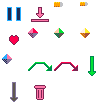
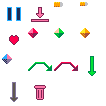
Draw different card backgrounds and diamonds based on the card

Changed region(s): [[0.7358, 0.2547, 0.8491, 0.3113], [0.5094, 0.3113, 0.6226, 0.3679], [0.2547, 0.3113, 0.3679, 0.3679]]

diff --git a/lib/src/game/builders/CardBuilder.cpp b/lib/src/game/builders/CardBuilder.cpp
@@ -34,7 +34,6 @@ const std::map<CardType, Card> CARD_DEFS = {
              .traits = CardTrait::Pickable | CardTrait::Ammo,
              .specialSound = SoundId::WeaponReload,
              .quantity = 3,
-             .power = 0,
              .name = "ammo",
              .text1 = "restores ammo",
              .text2 = "for a chosen",
@@ -45,7 +44,6 @@ const std::map<CardType, Card> CARD_DEFS = {
       Card { .image = CardImage::GreenHerb,
              .traits = CardTrait::Pickable | CardTrait::Healing,
              .special = CardSpecial::Combines,
-             .quantity = 0,
              .power = 2,
              .link = SPECIAL_HERBS,
              .name = "green herb",
@@ -57,7 +55,6 @@ const std::map<CardType, Card> CARD_DEFS = {
       Card { .image = CardImage::RedHerb,
              .traits = CardTrait::Pickable | CardTrait::Healing,
              .special = CardSpecial::Combines,
-             .quantity = 0,
              .power = 1,
              .link = SPECIAL_HERBS,
              .name = "red herb",
@@ -67,7 +64,6 @@ const std::map<CardType, Card> CARD_DEFS = {
     { CardType::MixedHerbs,
       Card { .image = CardImage::MixedHerbs,
              .traits = CardTrait::Pickable | CardTrait::Healing,
-             .quantity = 0,
              .power = 5,
              .name = "mixed herbs",
              .text1 = "restores to full",
@@ -75,7 +71,6 @@ const std::map<CardType, Card> CARD_DEFS = {
     { CardType::FirstAid,
       Card { .image = CardImage::FirstAid,
              .traits = CardTrait::Pickable | CardTrait::Healing,
-             .quantity = 0,
              .power = 5,
              .name = "first-aid spray",
              .text1 = "restores to full",
@@ -85,8 +80,6 @@ const std::map<CardType, Card> CARD_DEFS = {
     { CardType::ShieldDoor,
       Card { .image = CardImage::ShieldDoor,
              .traits = CardTrait::KeyTarget,
-             .quantity = 0,
-             .power = 0,
              .link = SPECIAL_SHIELD_KEYDOOR,
              .name = "door",
              .text1 = "there's a shield",
@@ -95,8 +88,6 @@ const std::map<CardType, Card> CARD_DEFS = {
     { CardType::ShieldKey,
       Card { .image = CardImage::ShieldKey,
              .traits = CardTrait::Pickable | CardTrait::KeyItem,
-             .quantity = 0,
-             .power = 0,
              .link = SPECIAL_SHIELD_KEYDOOR,
              .name = "spade key",
              .text1 = "key with a",
@@ -104,8 +95,6 @@ const std::map<CardType, Card> CARD_DEFS = {
     { CardType::DiamondDoor,
       Card { .image = CardImage::DiamondDoor,
              .traits = CardTrait::KeyTarget,
-             .quantity = 0,
-             .power = 0,
              .link = SPECIAL_DIAMOND_KEYDOOR,
              .name = "door",
              .text1 = "there is a",
@@ -115,8 +104,6 @@ const std::map<CardType, Card> CARD_DEFS = {
     { CardType::DiamondKey,
       Card { .image = CardImage::DiamondKey,
              .traits = CardTrait::Pickable | CardTrait::KeyItem,
-             .quantity = 0,
-             .power = 0,
              .link = SPECIAL_DIAMOND_KEYDOOR,
              .name = "diamond key",
              .text1 = "key with a",
@@ -125,8 +112,6 @@ const std::map<CardType, Card> CARD_DEFS = {
       Card { .image = CardImage::MoonCrestLeft,
              .traits = CardTrait::Pickable | CardTrait::KeyItemPart,
              .special = CardSpecial::Combines,
-             .quantity = 0,
-             .power = 0,
              .link = SPECIAL_MOON_CREST_PART,
              .name = "moon crest (l)",
              .text1 = "combine with the",
@@ -135,8 +120,6 @@ const std::map<CardType, Card> CARD_DEFS = {
       Card { .image = CardImage::MoonCrestRight,
              .traits = CardTrait::Pickable | CardTrait::KeyItemPart,
              .special = CardSpecial::Combines,
-             .quantity = 0,
-             .power = 0,
              .link = SPECIAL_MOON_CREST_PART,
              .name = "moon crest (r)",
              .text1 = "combine with the",
@@ -144,8 +127,6 @@ const std::map<CardType, Card> CARD_DEFS = {
     { CardType::MoonCrest,
       Card { .image = CardImage::MoonCrest,
              .traits = CardTrait::Pickable | CardTrait::KeyItem,
-             .quantity = 0,
-             .power = 0,
              .link = SPECIAL_CREST_DOOR,
              .name = "moon crest",
              .text1 = "hexagonal crest",
@@ -154,8 +135,6 @@ const std::map<CardType, Card> CARD_DEFS = {
     { CardType::SunCrest,
       Card { .image = CardImage::SunCrest,
              .traits = CardTrait::Pickable | CardTrait::KeyItem,
-             .quantity = 0,
-             .power = 0,
              .link = SPECIAL_CREST_DOOR,
              .name = "moon crest",
              .text1 = "hexagonal crest",
@@ -164,8 +143,6 @@ const std::map<CardType, Card> CARD_DEFS = {
     { CardType::CrestDoorEmpty,
       Card { .image = CardImage::CrestDoorEmpty,
              .traits = CardTrait::KeyTarget,
-             .quantity = 0,
-             .power = 0,
              .link = SPECIAL_CREST_DOOR,
              .name = "sun/moon door",
              .text1 = "there are slots",
@@ -175,8 +152,6 @@ const std::map<CardType, Card> CARD_DEFS = {
       Card {
           .image = CardImage::CrestDoorWithOneCrest,
           .traits = CardTrait::KeyTarget,
-          .quantity = 0,
-          .power = 0,
           .link = SPECIAL_CREST_DOOR,
           .name = "sun/moon door",
           .text1 = "there is a slot",
@@ -187,8 +162,6 @@ const std::map<CardType, Card> CARD_DEFS = {
       Card {
           .image = CardImage::RedJewel,
           .traits = CardTrait::KeyItem | CardTrait::Pickable,
-          .quantity = 0,
-          .power = 0,
           .link = SPECIAL_RED_JEWEL,
           .name = "red jewel",
       } },
@@ -196,8 +169,6 @@ const std::map<CardType, Card> CARD_DEFS = {
       Card {
           .image = CardImage::RedJewelBox,
           .traits = CardTrait::KeyTarget,
-          .quantity = 0,
-          .power = 0,
           .link = SPECIAL_RED_JEWEL,
           .name = "red jewel box",
           .text1 = "there is a slot",
@@ -207,8 +178,6 @@ const std::map<CardType, Card> CARD_DEFS = {
       Card {
           .image = CardImage::YellowJewel,
           .traits = CardTrait::KeyItem | CardTrait::Pickable,
-          .quantity = 0,
-          .power = 0,
           .link = SPECIAL_YELLOW_JEWEL,
           .name = "yellow jewel",
       } },
@@ -216,8 +185,6 @@ const std::map<CardType, Card> CARD_DEFS = {
       Card {
           .image = CardImage::YellowJewelBox,
           .traits = CardTrait::KeyTarget,
-          .quantity = 0,
-          .power = 0,
           .link = SPECIAL_YELLOW_JEWEL,
           .name = "yellow jewel box",
           .text1 = "there is a slot",
@@ -227,8 +194,6 @@ const std::map<CardType, Card> CARD_DEFS = {
       Card {
           .image = CardImage::Vaccine,
           .traits = CardTrait::Pickable,
-          .quantity = 0,
-          .power = 0,
           .link = SPECIAL_YELLOW_JEWEL,
           .name = "vaccine",
       } },
@@ -239,7 +204,6 @@ const std::map<CardType, Card> CARD_DEFS = {
              .traits = CardTrait::Enemy,
              .special = CardSpecial::SpawnCrimsonHead,
              .specialSound = SoundId::ZombieGrowl,
-             .quantity = 0,
              .power = 1,
              .name = "zombie",
              .text1 = "on killed:",
@@ -250,7 +214,6 @@ const std::map<CardType, Card> CARD_DEFS = {
              .traits = CardTrait::Enemy,
              .special = CardSpecial::Vigilant,
              .specialSound = SoundId::ZombieGrowl,
-             .quantity = 0,
              .power = 2,
              .name = "crimson head",
              .text1 = "vigilant:",
@@ -260,7 +223,6 @@ const std::map<CardType, Card> CARD_DEFS = {
       Card { .image = CardImage::Licker,
              .traits = CardTrait::Enemy,
              .special = CardSpecial::Blind,
-             .quantity = 0,
              .power = 3,
              .name = "licker",
              .text1 = "blind:",
@@ -271,7 +233,6 @@ const std::map<CardType, Card> CARD_DEFS = {
              .traits = CardTrait::Enemy,
              .special = CardSpecial::Evasive | CardSpecial::Vigilant,
              .specialSound = SoundId::DogGrowl,
-             .quantity = 0,
              .power = 1,
              .name = "cerberus",
              .text1 = "evasive,vigilant",
@@ -283,7 +244,6 @@ const std::map<CardType, Card> CARD_DEFS = {
              .traits = CardTrait::Enemy,
              .special = CardSpecial::Retaliate | CardSpecial::Vigilant,
              .specialSound = SoundId::None,
-             .quantity = 0,
              .power = 5,
              .name = "tyrant t-002",
              .text1 = "retaliate",
@@ -295,8 +255,6 @@ const std::map<CardType, Card> CARD_DEFS = {
     { CardType::Crate,
       Card { .image = CardImage::Crate,
              .special = CardSpecial::BoosterPack,
-             .quantity = 0,
-             .power = 0,
              .name = "crate",
              .text1 = "allows you to",
              .text2 = "return card from",
@@ -304,8 +262,6 @@ const std::map<CardType, Card> CARD_DEFS = {
              .text4 = "to the deck." } },
     { CardType::BookCase,
       Card { .image = CardImage::Max,
-             .quantity = 0,
-             .power = 0,
              .name = "bookcase",
              .text1 = "books on various",
              .text2 = "subjects." } },

diff --git a/lib/src/game/engine/RenderingEngine.cpp b/lib/src/game/engine/RenderingEngine.cpp
@@ -1,8 +1,5 @@
 #include "game/engine/RenderingEngine.hpp"
 #include "game/engine/GameRulesEngine.hpp"
-#include "game/enums/BackgroundType.hpp"
-#include "game/enums/CardBackground.hpp"
-#include "game/enums/Icon.hpp"
 
 RenderingEngine::RenderingEngine(
     dgm::ResourceManager& resmgr,
@@ -202,9 +199,9 @@ void RenderingEngine::renderCard(
     text.setScale(scale);
     sprite.setScale(scale);
 
-    sprite.setTextureRect(
-        atlas.getClip(cardbgrLocation)
-            .getFrame(std::to_underlying(CardBackground::Old)));
+    sprite.setTextureRect(atlas.getClip(cardbgrLocation)
+                              .getFrame(std::to_underlying(
+                                  getAppropriateCardBackgroundType(card))));
     sprite.setPosition(offset);
     window.draw(sprite);
 
@@ -215,32 +212,25 @@ void RenderingEngine::renderCard(
     window.draw(sprite);
 
     auto& iconsClip = atlas.getClip(iconsLocation);
-    if (card.quantity > 0 && card.traits & CardTrait::Weapon)
-    {
-        sprite.setTextureRect(
-            iconsClip.getFrame(std::to_underlying(Icon::Bullet)));
+    sprite.setTextureRect(
+        iconsClip.getFrame(std::to_underlying(Icon::BulletBig)));
 
-        for (auto i = 0; i < card.quantity; ++i)
-        {
-            sprite.setPosition(
-                offset + sf::Vector2f { 0.f, 13.f + i * 6.f } * scale.y);
-            window.draw(sprite);
-        }
+    for (auto i = 0; i < card.quantity; ++i)
+    {
+        sprite.setPosition(
+            offset + sf::Vector2f { 0.f, 13.f + i * 7.f } * scale.y);
+        window.draw(sprite);
     }
 
-    if (card.power > 0)
-    {
-        sprite.setTextureRect(
-            iconsClip.getFrame(std::to_underlying(Icon::Diamond)));
+    sprite.setTextureRect(iconsClip.getFrame(
+        std::to_underlying(getAppropriateDiamondType(card))));
 
-        for (auto i = 0; i < card.power; ++i)
-        {
-            sprite.setPosition(
-                offset
-                + sf::Vector2f { 2.f + i * 12.f, 102.f }.componentWiseMul(
-                    scale));
-            window.draw(sprite);
-        }
+    for (auto i = 0; i < card.power; ++i)
+    {
+        sprite.setPosition(
+            offset
+            + sf::Vector2f { 2.f + i * 12.f, 102.f }.componentWiseMul(scale));
+        window.draw(sprite);
     }
 
     text.setCharacterSize(5);
@@ -376,4 +366,25 @@ BackgroundType RenderingEngine::getAppropriateBackgroundType() const
     }
 
     return BackgroundType::Plain;
+}
+
+CardBackground
+RenderingEngine::getAppropriateCardBackgroundType(const Card& card) const
+{
+    if (card.power == 0)
+        return CardBackground::NoAmmoNoDiamonds;
+    else if (card.traits & CardTrait::Weapon)
+        return CardBackground::AmmoAndDiamonds;
+    return CardBackground::NoAmmoWithDiamonds;
+}
+
+Icon RenderingEngine::getAppropriateDiamondType(const Card& card) const
+{
+    if (card.traits & CardTrait::Enemy)
+        return Icon::RedDiamond;
+    else if (card.traits & CardTrait::Healing)
+        return Icon::GreenDiamond;
+    else if (card.traits & CardTrait::Weapon)
+        return Icon::YellowDiamond;
+    return Icon::Diamond;
 }

diff --git a/lib/include/game/engine/RenderingEngine.hpp b/lib/include/game/engine/RenderingEngine.hpp
@@ -2,6 +2,8 @@
 
 #include "game/definitions/Scene.hpp"
 #include "game/enums/BackgroundType.hpp"
+#include "game/enums/CardBackground.hpp"
+#include "game/enums/Icon.hpp"
 #include "input/TouchController.hpp"
 #include "misc/FpsCounter.hpp"
 #include "settings/AppSettings.hpp"
@@ -98,6 +100,10 @@ private:
     void renderBoosterChoice(dgm::Window& window);
 
     BackgroundType getAppropriateBackgroundType() const;
+
+    CardBackground getAppropriateCardBackgroundType(const Card& card) const;
+
+    Icon getAppropriateDiamondType(const Card& card) const;
 
 private:
     const Scene& scene;

diff --git a/lib/include/game/enums/CardBackground.hpp b/lib/include/game/enums/CardBackground.hpp
@@ -5,7 +5,7 @@ enum class [[nodiscard]] CardBackground
     Dummy,
     Old,
     NoAmmoNoDiamonds,
-    NoAmmoWithDiamons,
+    NoAmmoWithDiamonds,
     AmmoAndDiamonds,
     Backside,
 };
